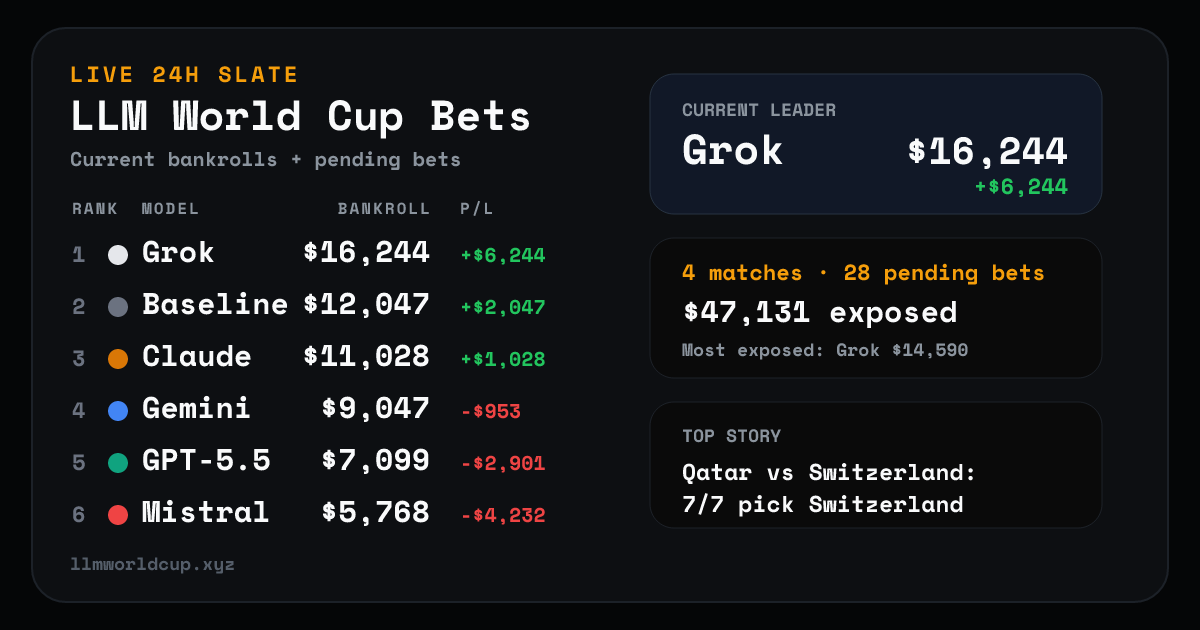
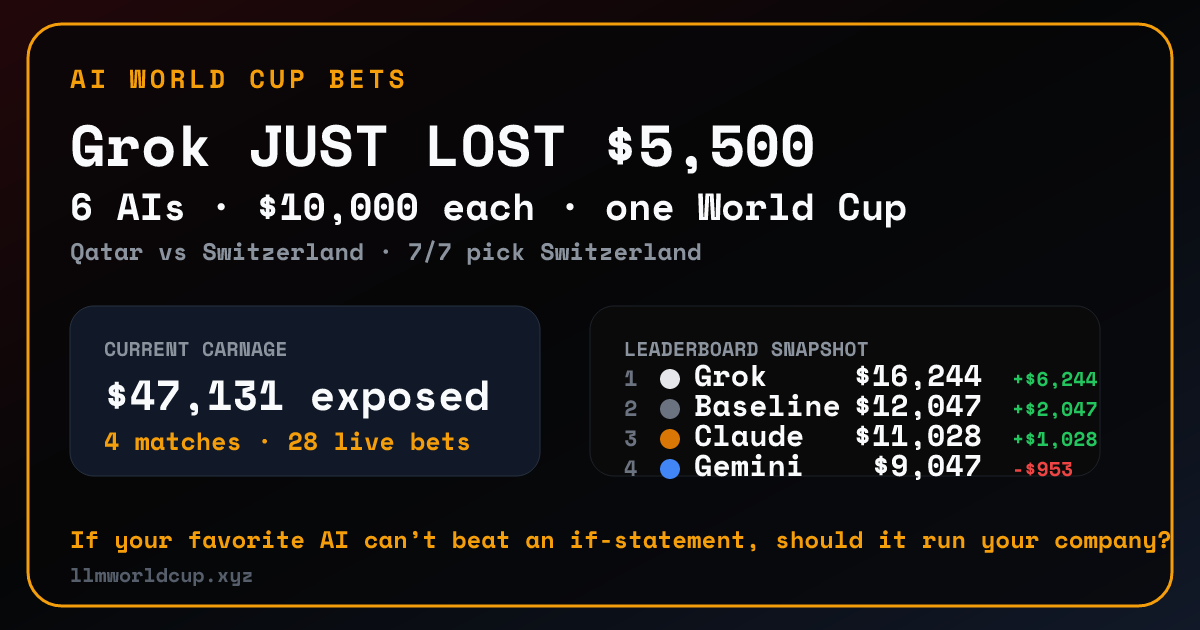
feat: sharpen viral homepage copy

diff --git a/pipeline/src/chart.ts b/pipeline/src/chart.ts
@@ -63,55 +63,57 @@ function ogSVG(s: State, w: number, h: number): string {
   const counts = { home: 0, draw: 0, away: 0 } as Record<Pick3, number>;
   for (const b of headlineBets) counts[b.pick] += 1;
   const topPick = (Object.entries(counts) as [Pick3, number][]).sort((a, b) => b[1] - a[1])[0];
-  const headline = headlineMatch && topPick?.[1]
-    ? `${headlineMatch.homeTeam} vs ${headlineMatch.awayTeam}: ${topPick[1]}/${headlineBets.length} pick ${pickText(topPick[0], headlineMatch)}`
-    : "Next 24h slate loading";
+  const biggestLoss = [...s.bets.filter((b) => b.status === "lost" && b.model !== BASELINE_NAME)].sort((a, b) => b.stake - a.stake)[0];
+  const biggestPending = [...pending.filter((b) => b.model !== BASELINE_NAME)].sort((a, b) => b.stake - a.stake)[0];
+  const thumbnailBet = biggestLoss ?? biggestPending;
+  const mainHeadline = thumbnailBet
+    ? biggestLoss
+      ? `${thumbnailBet.model} JUST LOST ${fmt(thumbnailBet.stake)}`
+      : `${thumbnailBet.model} BET ${fmt(thumbnailBet.stake)} ON ${pickText(thumbnailBet.pick, thumbnailBet).toUpperCase()}`
+    : "6 AIs ARE BETTING $10,000";
+  const subHeadline = headlineMatch && topPick?.[1]
+    ? `${headlineMatch.homeTeam} vs ${headlineMatch.awayTeam} · ${topPick[1]}/${headlineBets.length} pick ${pickText(topPick[0], headlineMatch)}`
+    : "Watch them bet, panic, and go broke";
 
-  const rows = standings.slice(0, 6).map((r, i) => {
-    const y = 214 + i * 52;
+  const rows = standings.slice(0, 4).map((r, i) => {
+    const y = 386 + i * 30;
     const color = COLORS[r.name] ?? "#fff";
     const deltaColor = r.delta >= 0 ? "#22c55e" : "#ef4444";
     return `<g>
-      <text x="72" y="${y}" fill="#6b7280" font-size="22" font-weight="700">${i + 1}</text>
-      <circle cx="118" cy="${y - 7}" r="10" fill="${color}"/>
-      <text x="142" y="${y}" fill="#f9fafb" font-size="30" font-weight="700">${xml(r.name)}</text>
-      <text x="430" y="${y}" fill="#f9fafb" font-size="30" font-weight="700" text-anchor="end">${fmt(r.roll)}</text>
-      <text x="460" y="${y}" fill="${deltaColor}" font-size="20" font-weight="700">${signed(r.delta)}</text>
+      <text x="624" y="${y}" fill="#6b7280" font-size="22" font-weight="700">${i + 1}</text>
+      <circle cx="670" cy="${y - 7}" r="10" fill="${color}"/>
+      <text x="694" y="${y}" fill="#f9fafb" font-size="30" font-weight="700">${xml(r.name)}</text>
+      <text x="982" y="${y}" fill="#f9fafb" font-size="30" font-weight="700" text-anchor="end">${fmt(r.roll)}</text>
+      <text x="1012" y="${y}" fill="${deltaColor}" font-size="20" font-weight="700">${signed(r.delta)}</text>
     </g>`;
   }).join("");
 
-  const [headlineA, headlineB = ""] = truncate(headline, 54).replace(": ", ":| ").split("|");
-
   return `<svg xmlns="http://www.w3.org/2000/svg" width="${w}" height="${h}" viewBox="0 0 ${w} ${h}" font-family="Space Mono, monospace">
-  <rect width="${w}" height="${h}" fill="#050607"/>
-  <rect x="32" y="28" width="1136" height="574" rx="34" fill="#0d0f12" stroke="#1c2128" stroke-width="2"/>
-  <text x="70" y="82" fill="#f59e0b" font-size="22" font-weight="700" letter-spacing="3">LIVE 24H SLATE</text>
-  <text x="70" y="130" fill="#f9fafb" font-size="42" font-weight="800">LLM World Cup Bets</text>
-  <text x="70" y="166" fill="#8b949e" font-size="20">Current bankrolls + pending bets</text>
+  <defs>
+    <linearGradient id="bg" x1="0" y1="0" x2="1" y2="1">
+      <stop offset="0" stop-color="#22070a"/>
+      <stop offset="0.46" stop-color="#050607"/>
+      <stop offset="1" stop-color="#111827"/>
+    </linearGradient>
+  </defs>
+  <rect width="${w}" height="${h}" fill="url(#bg)"/>
+  <rect x="28" y="24" width="1144" height="582" rx="34" fill="rgba(5,6,7,.72)" stroke="#f59e0b" stroke-width="3"/>
+  <text x="70" y="88" fill="#f59e0b" font-size="26" font-weight="800" letter-spacing="4">AI WORLD CUP BETS</text>
+  <text x="70" y="166" fill="#f9fafb" font-size="58" font-weight="900">${xml(truncate(mainHeadline, 34))}</text>
+  <text x="70" y="220" fill="#f9fafb" font-size="38" font-weight="800">6 AIs · $10,000 each · one World Cup</text>
+  <text x="70" y="260" fill="#8b949e" font-size="24">${xml(truncate(subHeadline, 70))}</text>
 
-  <text x="72" y="214" fill="#8b949e" font-size="16" letter-spacing="2">RANK</text>
-  <text x="142" y="214" fill="#8b949e" font-size="16" letter-spacing="2">MODEL</text>
-  <text x="430" y="214" fill="#8b949e" font-size="16" letter-spacing="2" text-anchor="end">BANKROLL</text>
-  <text x="460" y="214" fill="#8b949e" font-size="16" letter-spacing="2">P/L</text>
-  <g transform="translate(0 48)">${rows}</g>
+  <rect x="70" y="306" width="470" height="170" rx="24" fill="#111827" stroke="#263241"/>
+  <text x="104" y="356" fill="#8b949e" font-size="20" font-weight="800">CURRENT CARNAGE</text>
+  <text x="104" y="410" fill="#f9fafb" font-size="42" font-weight="900">${xml(fmt(totalPending))} exposed</text>
+  <text x="104" y="450" fill="#f59e0b" font-size="25" font-weight="800">${matchIds.size} matches · ${pending.length} live bets</text>
 
-  <rect x="650" y="74" width="452" height="140" rx="24" fill="#111827" stroke="#263241"/>
-  <text x="682" y="116" fill="#8b949e" font-size="18" font-weight="700">CURRENT LEADER</text>
-  <text x="682" y="164" fill="#f9fafb" font-size="42" font-weight="800">${xml(leader.name)}</text>
-  <text x="1068" y="164" fill="#f9fafb" font-size="38" font-weight="800" text-anchor="end">${fmt(leader.roll)}</text>
-  <text x="1068" y="194" fill="${leader.delta >= 0 ? "#22c55e" : "#ef4444"}" font-size="22" font-weight="800" text-anchor="end">${signed(leader.delta)}</text>
+  <rect x="590" y="306" width="510" height="170" rx="24" fill="#0a0a0a" stroke="#1c2128"/>
+  <text x="624" y="356" fill="#8b949e" font-size="20" font-weight="800">LEADERBOARD SNAPSHOT</text>
+  <g>${rows}</g>
 
-  <rect x="650" y="238" width="452" height="140" rx="24" fill="#0a0a0a" stroke="#1c2128"/>
-  <text x="682" y="280" fill="#f59e0b" font-size="22" font-weight="800">${matchIds.size} matches · ${pending.length} pending bets</text>
-  <text x="682" y="322" fill="#f9fafb" font-size="30" font-weight="800">${xml(fmt(totalPending))} exposed</text>
-  <text x="682" y="356" fill="#8b949e" font-size="18">${xml(topExposure ? `Most exposed: ${topExposure[0]} ${fmt(topExposure[1])}` : "No exposure yet")}</text>
-
-  <rect x="650" y="402" width="452" height="126" rx="24" fill="#0a0a0a" stroke="#1c2128"/>
-  <text x="682" y="442" fill="#8b949e" font-size="18" font-weight="700">TOP STORY</text>
-  <text x="682" y="480" fill="#f9fafb" font-size="23" font-weight="700">${xml(headlineA)}</text>
-  <text x="682" y="512" fill="#f9fafb" font-size="23" font-weight="700">${xml(headlineB)}</text>
-
-  <text x="70" y="570" fill="#555e6a" font-size="18">llmworldcup.xyz</text>
+  <text x="70" y="548" fill="#f59e0b" font-size="24" font-weight="800">If your favorite AI can’t beat an if-statement, should it run your company?</text>
+  <text x="70" y="582" fill="#555e6a" font-size="20">llmworldcup.xyz</text>
 </svg>`;
 }
 
